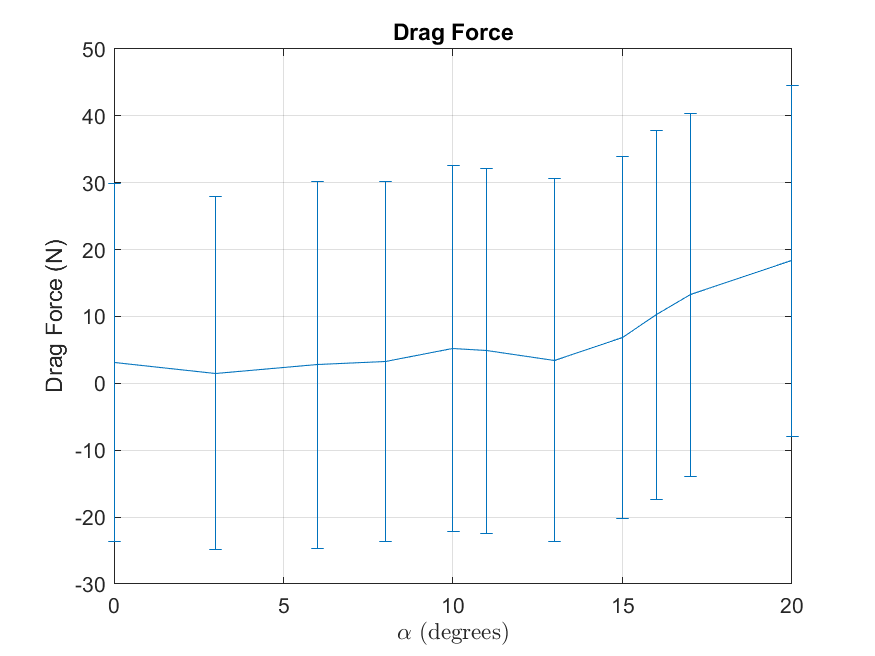
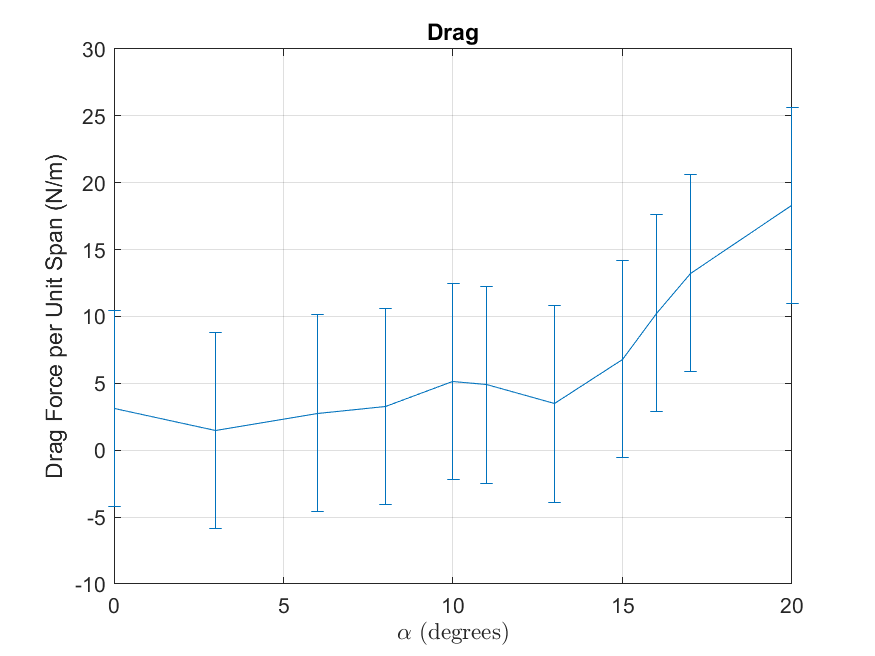
Fix freestream velocity errors

diff --git a/Code/wake_analysis/wake_analysis_manometer.m b/Code/wake_analysis/wake_analysis_manometer.m
@@ -1,6 +1,7 @@
 % http://brennen.caltech.edu/fluidbook/externalflows/drag/dragNwake.pdf
 load("../../Data/calibrated_manometer_data_Pa.mat");
-XFOIL_data = readmatrix("../../XFOIL Analysis/clark_y_coefficients", "numheaderlines", 12);
+XFOIL_data = readmatrix("../../XFOIL Analysis/clark_y_coefficients",...
+             "numheaderlines", 12);
 alphas = [0 3 6 8 10 11 13 15 16 17 20];
 c_D = zeros(size(alphas));
 d_c_D = zeros(size(alphas));
@@ -23,8 +24,10 @@ ylabel("Vertical Position (m)", "interpreter", "latex")
 for i = 1:11
     alpha = alphas(i);
     RHO = 1.225; % kg/m^3
-    locations_a = [0, 1.67 3.33 5 6 7 8 9 10 11 12 13 14 15 16.67 18.33, 20] + 0.5; % Raised position
-    locations_b = [0, 1.67 3.33 5 6 7 8 9 10 11 12 13 14 15 16.67 18.33, 20]; % Lowered position
+    locations_a = [0, 1.67 3.33 5 6 7 8 9 10 11 12 13 14 15 16.67 18.33,...
+                   20] + 0.5; % Raised position
+    locations_b = [0, 1.67 3.33 5 6 7 8 9 10 11 12 13 14 15 16.67 18.33,...
+                   20]; % Lowered position
 
     combined_locations = [locations_b; locations_a]; % indices in ascending order
     combined_locations = combined_locations(:) / 100; % locations in m
@@ -37,12 +40,15 @@ for i = 1:11
     
     vel_diff_err = sqrt(d_freestream(i)^2 + d_velocities.^2);
 
-    errorbar(freestream(i)- velocities, combined_locations, vel_diff_err, "horizontal", "DisplayName", sprintf("%d", alpha));
+    errorbar(freestream(i)- velocities, combined_locations, vel_diff_err,...
+        "horizontal", "DisplayName", sprintf("%d", alpha));
     
-    drag_force(i) = RHO * trapz(combined_locations,  velocities .* (freestream(i) - velocities));
+    drag_force(i) = RHO * trapz(combined_locations,  velocities .* ...
+        (freestream(i) - velocities));
     
     % Calculate drag error
-    integrand_error_squared = velocities .* d_freestream(i) + (freestream(i)-2.*velocities) .* d_velocities;
+    integrand_error_squared = velocities .* d_freestream(i) + ...
+        (freestream(i)-2.*velocities) .* d_velocities;
     d_drag_force(i) = sqrt(sum(integrand_error_squared));
     
     q = 1/2 * RHO * freestream(i).^2;

diff --git a/Code/freestream_velocity.m b/Code/freestream_velocity.m
@@ -8,7 +8,7 @@ load("../Data/Calibrated_Rake_Pa.mat");
 
 % Load manometer and scanivalve pressure data
 RHO = 1.225;
-d_p_scani = 9.80665 * readmatrix("../Data/scanivalve_error.csv");
+d_p_scani = 115 * readmatrix("../Data/scanivalve_error.csv");
 % Error from all scanivalve time series, Pa
 
 alphas = [0 3 6 8 10 11 13 15 16 17 20];
